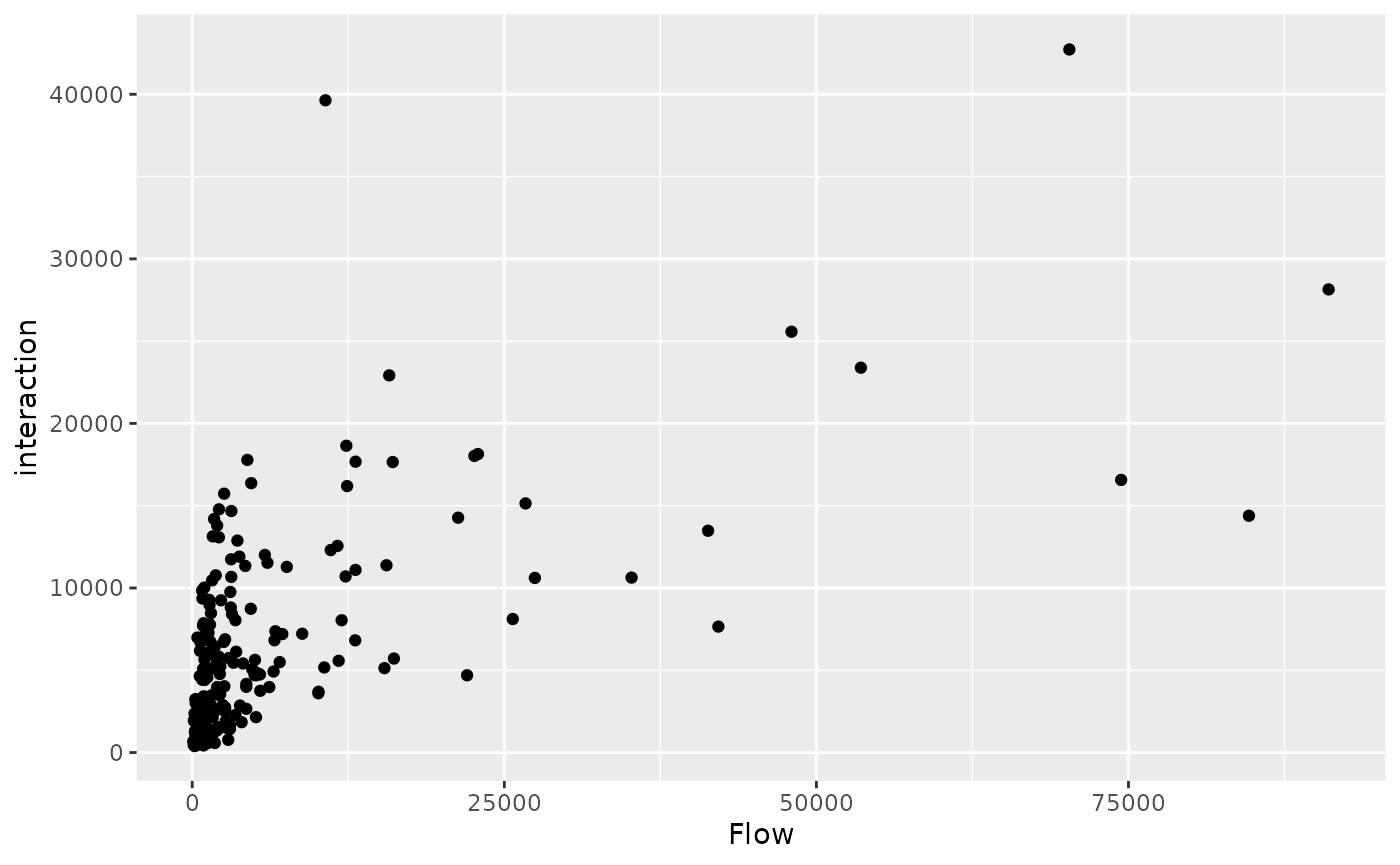
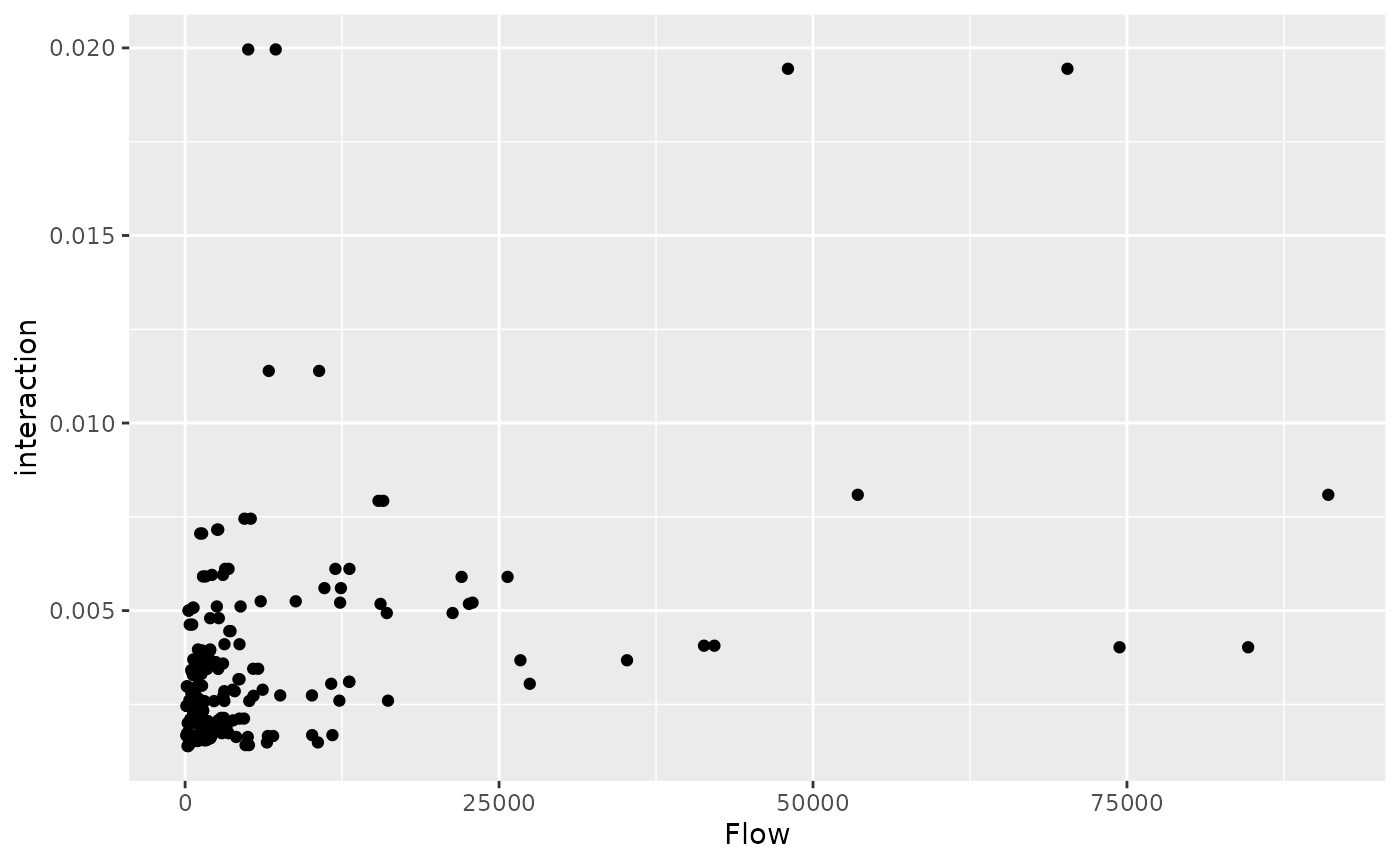
Built site for si: 0.0.1@549cb5e
Former-commit-id: 4d9138ca2c24558da745d09a7bc68298c59a588d
Former-commit-id: 2157712b9194cda98d2e806494d0aa88f41de46a

diff --git a/reference/si_calculate.html b/reference/si_calculate.html
@@ -61,7 +61,7 @@ and user-specified function</p>
 
     <div class="section level2">
     <h2 id="ref-usage">Usage<a class="anchor" aria-label="anchor" href="#ref-usage"></a></h2>
-    <div class="sourceCode"><pre class="sourceCode r"><code><span class="fu">si_calculate</span><span class="op">(</span><span class="va">od</span>, <span class="va">fun</span>, <span class="va">constraint_p</span>, <span class="va">...</span><span class="op">)</span></code></pre></div>
+    <div class="sourceCode"><pre class="sourceCode r"><code><span class="fu">si_calculate</span><span class="op">(</span><span class="va">od</span>, <span class="va">fun</span>, <span class="va">constraint_p</span>, <span class="va">...</span>, output_col <span class="op">=</span> <span class="st">"interaction"</span><span class="op">)</span></code></pre></div>
     </div>
 
     <div class="section level2">
@@ -79,6 +79,9 @@ dataset that constrains the total 'interaction' (e.g. n. trips) for all OD pairs
 such that the total for each zone of origin cannot go above this value.</p></dd>
 <dt>...</dt>
 <dd><p>Arguments passed to <code>fun</code></p></dd>
+<dt>output_col</dt>
+<dd><p>Character string containing the name of the new output
+column. <code>"interaction"</code> by default.</p></dd>
 </dl></div>
 
     <div class="section level2">
@@ -165,6 +168,9 @@ such that the total for each zone of origin cannot go above this value.</p></dd>
 <span class="r-plt img"><img src="si_calculate-3.png" alt="" width="700" height="433"></span>
 <span class="r-in"><span class="fu"><a href="https://rdrr.io/r/graphics/plot.default.html" class="external-link">plot</a></span><span class="op">(</span><span class="va">od_pconst</span><span class="op">[</span><span class="st">"interaction"</span><span class="op">]</span>, logz <span class="op">=</span> <span class="cn">TRUE</span><span class="op">)</span></span>
 <span class="r-plt img"><img src="si_calculate-4.png" alt="" width="700" height="433"></span>
+<span class="r-in"><span class="va">od_dd</span> <span class="op">=</span> <span class="fu">si_calculate</span><span class="op">(</span><span class="va">od</span>, fun <span class="op">=</span> <span class="va">fun_dd</span>, d <span class="op">=</span> <span class="va">distance_euclidean</span>, output_col <span class="op">=</span> <span class="st">"res"</span><span class="op">)</span></span>
+<span class="r-in"><span class="fu"><a href="https://rdrr.io/r/utils/head.html" class="external-link">head</a></span><span class="op">(</span><span class="va">od_dd</span><span class="op">$</span><span class="va">res</span><span class="op">)</span></span>
+<span class="r-out co"><span class="r-pr">#&gt;</span> [1] 1.0000000 0.3416593 0.3416593 1.0000000 1.0000000 0.6220942</span>
 </code></pre></div>
     </div>
   </main><aside class="col-md-3"><nav id="toc"><h2>On this page</h2>

diff --git a/reference/si_predict.html b/reference/si_predict.html
@@ -58,7 +58,7 @@
 
     <div class="section level2">
     <h2 id="ref-usage">Usage<a class="anchor" aria-label="anchor" href="#ref-usage"></a></h2>
-    <div class="sourceCode"><pre class="sourceCode r"><code><span class="fu">si_predict</span><span class="op">(</span><span class="va">od</span>, <span class="va">model</span>, <span class="va">constraint_p</span><span class="op">)</span></code></pre></div>
+    <div class="sourceCode"><pre class="sourceCode r"><code><span class="fu">si_predict</span><span class="op">(</span><span class="va">od</span>, <span class="va">model</span>, <span class="va">constraint_p</span>, output_col <span class="op">=</span> <span class="st">"interaction"</span><span class="op">)</span></code></pre></div>
     </div>
 
     <div class="section level2">
@@ -73,6 +73,9 @@
 Character string corresponding to column in the <code>od</code>
 dataset that constrains the total 'interaction' (e.g. n. trips) for all OD pairs
 such that the total for each zone of origin cannot go above this value.</p></dd>
+<dt>output_col</dt>
+<dd><p>Character string containing the name of the new output
+column. <code>"interaction"</code> by default.</p></dd>
 </dl></div>
     <div class="section level2">
     <h2 id="see-also">See also<a class="anchor" aria-label="anchor" href="#see-also"></a></h2>

diff --git a/articles/si.html b/articles/si.html
@@ -242,7 +242,7 @@
 <p><img src="si_files/figure-html/unnamed-chunk-8-1.png" width="700"></p>
 <div class="sourceCode" id="cb12"><pre class="downlit sourceCode r">
 <code class="sourceCode R"><span class="fu"><a href="https://rdrr.io/r/stats/cor.html" class="external-link">cor</a></span><span class="op">(</span><span class="va">od_constrained_p</span><span class="op">$</span><span class="va">Flow</span>, <span class="va">od_constrained_p</span><span class="op">$</span><span class="va">interaction</span><span class="op">)</span><span class="op">^</span><span class="fl">2</span>
-<span class="co">#&gt; [1] 0.3891644</span></code></pre></div>
+<span class="co">#&gt; [1] 0.1677679</span></code></pre></div>
 <p>Progress! We have more than doubled the predictive ability of our model by using a ‘production constrained’ SIM, as defined mathematically in the <a href="https://robinlovelace.github.io/si/articles/sims-first-principles.html"><code>sim-first-principles</code> vignette</a>.</p>
 </div>
 <div class="section level2">
